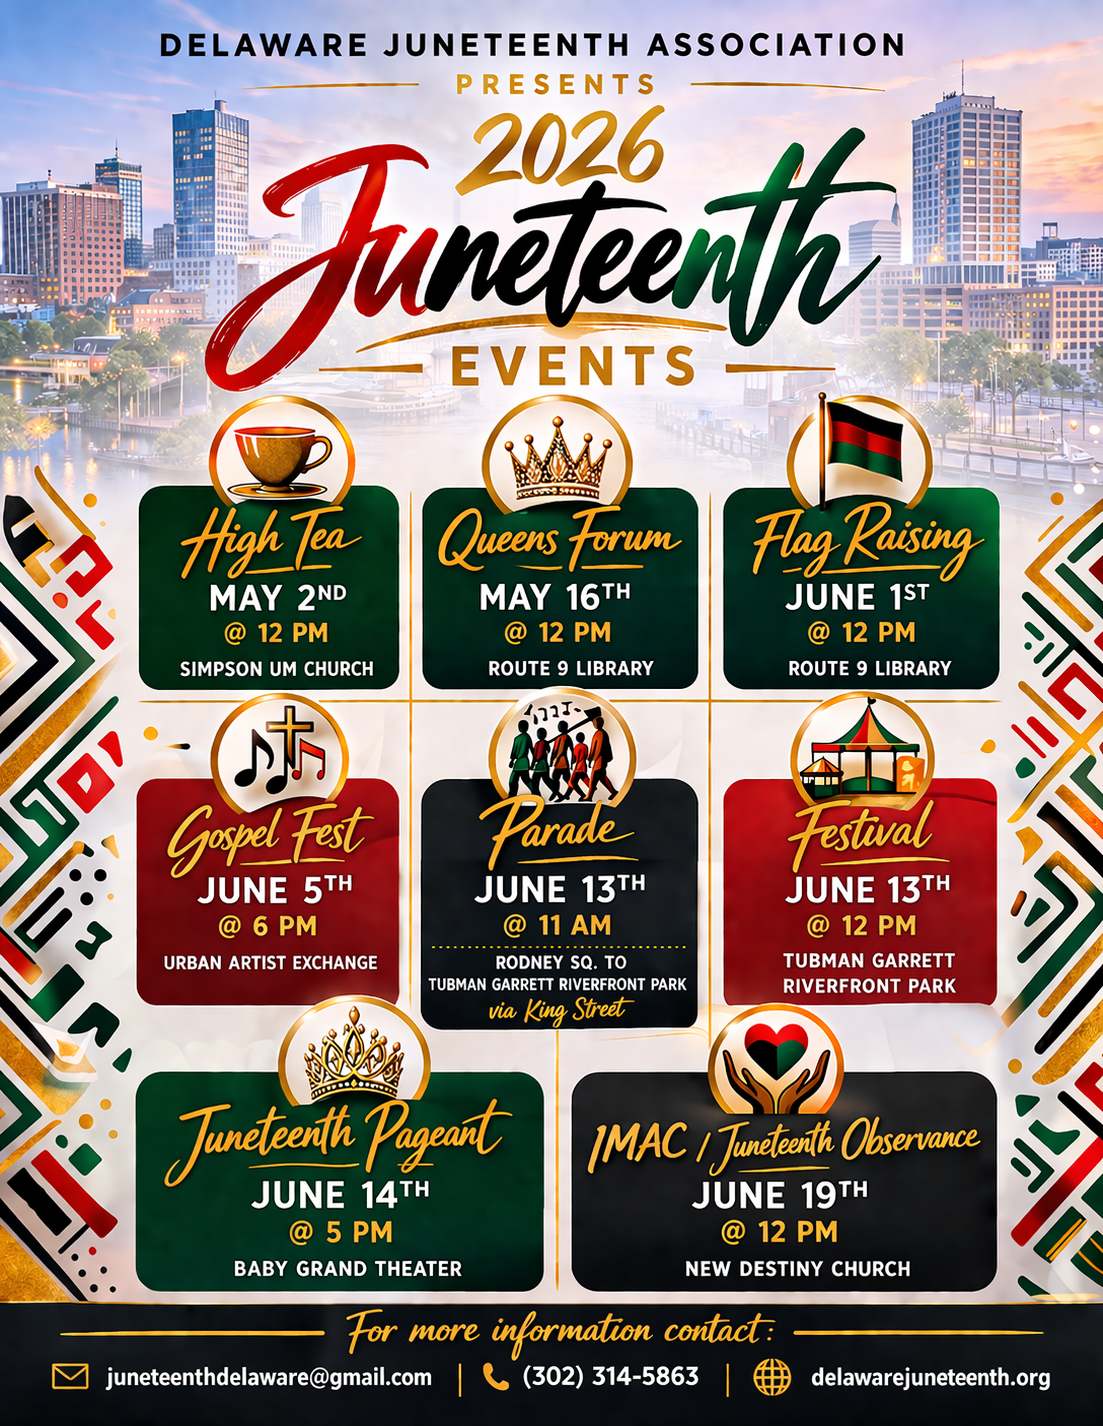
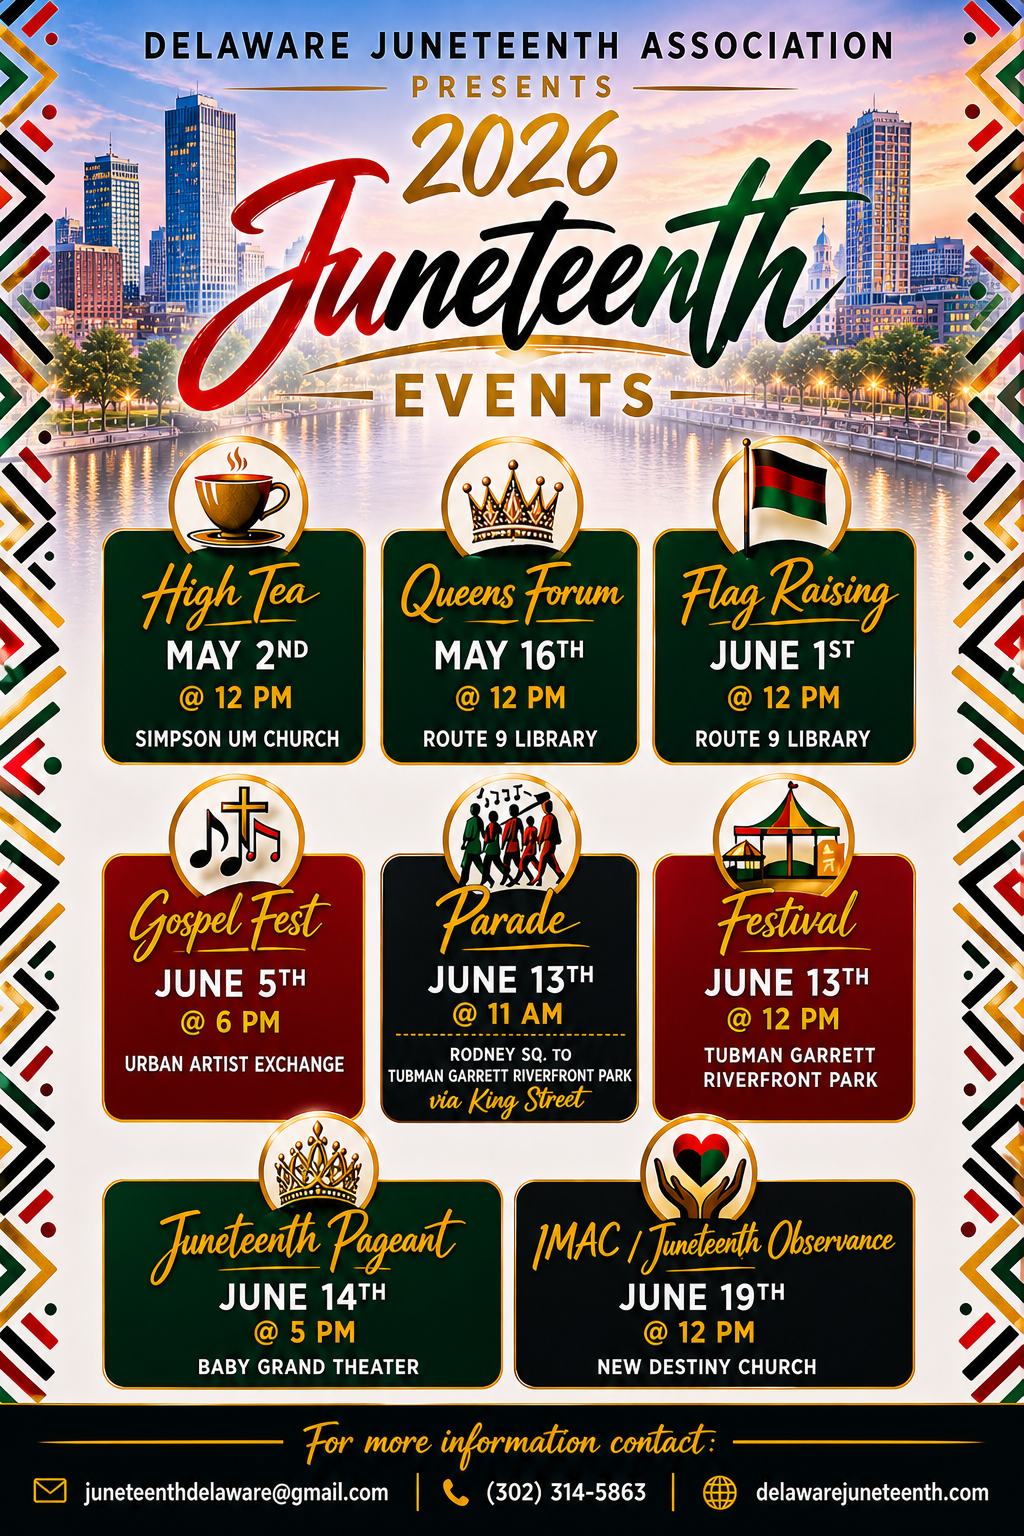
Add files via upload

diff --git a/index.html b/index.html
@@ -117,18 +117,6 @@
 
           <article class="home-slide" data-slide aria-hidden="true">
             <div class="home-slide-backdrop" aria-hidden="true">
-              <img src="images/deja-queens-forum-2026.png" alt="">
-            </div>
-
-            <div class="home-slide-content">
-              <div class="home-slide-poster">
-                <img src="images/deja-queens-forum-2026.png" alt="Former Queens Forum flyer for May 16, 2026 at Route 9 Library">
-              </div>
-            </div>
-          </article>
-
-          <article class="home-slide" data-slide aria-hidden="true">
-            <div class="home-slide-backdrop" aria-hidden="true">
               <img src="images/juneteenth-flag-raising-2026-flyer.png" alt="">
             </div>
 
@@ -141,24 +129,12 @@
 
           <article class="home-slide" data-slide aria-hidden="true">
             <div class="home-slide-backdrop" aria-hidden="true">
-              <img src="images/deja-fest-2026.png" alt="">
+              <img src="images/deja-gospel-fest-2026.jpg" alt="">
             </div>
 
             <div class="home-slide-content">
               <div class="home-slide-poster">
-                <img src="images/deja-fest-2026.png" alt="Juneteenth Festival and Parade flyer for June 13, 2026">
-              </div>
-            </div>
-          </article>
-
-          <article class="home-slide" data-slide aria-hidden="true">
-            <div class="home-slide-backdrop" aria-hidden="true">
-              <img src="images/fest-vendors-2026-flyer.png" alt="">
-            </div>
-
-            <div class="home-slide-content">
-              <div class="home-slide-poster">
-                <img src="images/fest-vendors-2026-flyer.png" alt="Need Vendors flyer for the June 13, 2026 Juneteenth celebration">
+                <img src="images/deja-gospel-fest-2026.jpg" alt="Delaware Juneteenth Gospel Fest flyer for June 5, 2026">
               </div>
             </div>
           </article>
@@ -171,6 +147,18 @@
             <div class="home-slide-content">
               <div class="home-slide-poster">
                 <img src="images/deja-parade-flyer-2026.png" alt="DE Juneteenth Parade flyer for Saturday, June 13, 2026">
+              </div>
+            </div>
+          </article>
+
+          <article class="home-slide" data-slide aria-hidden="true">
+            <div class="home-slide-backdrop" aria-hidden="true">
+              <img src="images/deja-fest-2026.png" alt="">
+            </div>
+
+            <div class="home-slide-content">
+              <div class="home-slide-poster">
+                <img src="images/deja-fest-2026.png" alt="Delaware Juneteenth Festival flyer for June 13, 2026 featuring The Fuzaholics Band">
               </div>
             </div>
           </article>
@@ -194,7 +182,7 @@
 
             <div class="home-slide-content">
               <div class="home-slide-poster">
-                <img src="images/imac-juneteenth-freedom-celebration-2026.png" alt="IMAC June 19, 2026 Juneteenth Freedom Celebration flyer at New Destiny Fellowship">
+                <img src="images/imac-juneteenth-freedom-celebration-2026.png" alt="IMAC Juneteenth Observance flyer for June 19, 2026 at New Destiny Fellowship">
               </div>
             </div>
           </article>
@@ -203,17 +191,16 @@
         <div class="home-slider-controls">
           <div class="home-slider-dots" role="tablist" aria-label="Featured flyer slides">
             <button type="button" class="home-slider-dot is-active" data-slide-to="0" aria-label="Show 2026 Juneteenth events flyer" aria-pressed="true"></button>
-            <button type="button" class="home-slider-dot" data-slide-to="1" aria-label="Show Former Queens Forum flyer" aria-pressed="false"></button>
-            <button type="button" class="home-slider-dot" data-slide-to="2" aria-label="Show Juneteenth flag raising flyer" aria-pressed="false"></button>
-            <button type="button" class="home-slider-dot" data-slide-to="3" aria-label="Show festival and parade flyer" aria-pressed="false"></button>
-            <button type="button" class="home-slider-dot" data-slide-to="4" aria-label="Show vendor flyer" aria-pressed="false"></button>
-            <button type="button" class="home-slider-dot" data-slide-to="5" aria-label="Show parade flyer" aria-pressed="false"></button>
-            <button type="button" class="home-slider-dot" data-slide-to="6" aria-label="Show pageant flyer" aria-pressed="false"></button>
-            <button type="button" class="home-slider-dot" data-slide-to="7" aria-label="Show Juneteenth Freedom Celebration flyer" aria-pressed="false"></button>
+            <button type="button" class="home-slider-dot" data-slide-to="1" aria-label="Show Juneteenth flag raising flyer" aria-pressed="false"></button>
+            <button type="button" class="home-slider-dot" data-slide-to="2" aria-label="Show Gospel Fest flyer" aria-pressed="false"></button>
+            <button type="button" class="home-slider-dot" data-slide-to="3" aria-label="Show parade flyer" aria-pressed="false"></button>
+            <button type="button" class="home-slider-dot" data-slide-to="4" aria-label="Show festival flyer" aria-pressed="false"></button>
+            <button type="button" class="home-slider-dot" data-slide-to="5" aria-label="Show pageant flyer" aria-pressed="false"></button>
+            <button type="button" class="home-slider-dot" data-slide-to="6" aria-label="Show Juneteenth Observance flyer" aria-pressed="false"></button>
           </div>
 
           <div class="home-slider-actions">
-            <span class="home-slider-count" data-slide-count>01 / 08</span>
+            <span class="home-slider-count" data-slide-count>01 / 07</span>
             <button type="button" class="home-slider-button" data-slide-direction="prev">Prev</button>
             <button type="button" class="home-slider-button" data-slide-direction="next">Next</button>
             <button type="button" class="home-slider-button" data-slide-toggle aria-pressed="false" aria-label="Pause slideshow autoplay">Pause</button>

diff --git a/upcoming-events.html b/upcoming-events.html
@@ -97,15 +97,6 @@
           </article>
 
           <article class="event-flyer-card">
-            <img src="images/deja-queens-forum-2026.png" alt="Former Queens Forum flyer for May 16, 2026 at Route 9 Library">
-            <h4>Former Queens Forum</h4>
-            <p>
-              The next DEJA event, taking place May 16, 2026 at 12:00 PM at Route 9 Library in
-              New Castle, Delaware.
-            </p>
-          </article>
-
-          <article class="event-flyer-card">
             <img src="images/juneteenth-flag-raising-2026-flyer.png" alt="Juneteenth Flag Raising flyer for Monday, June 1, 2026 at Route 9 Library and Innovation Center">
             <h4>Juneteenth Flag Raising</h4>
             <p>
@@ -115,19 +106,11 @@
           </article>
 
           <article class="event-flyer-card">
-            <img src="images/deja-fest-2026.png" alt="Juneteenth Festival and Parade flyer for June 13, 2026">
-            <h4>Juneteenth Festival &amp; Parade</h4>
+            <img src="images/deja-gospel-fest-2026.jpg" alt="Delaware Juneteenth Gospel Fest flyer for June 5, 2026">
+            <h4>Gospel Fest</h4>
             <p>
-              Featured community celebration flyer for the June 13, 2026 festival and parade at
-              Tubman-Garrett Park.
-            </p>
-          </article>
-
-          <article class="event-flyer-card">
-            <img src="images/fest-vendors-2026-flyer.png" alt="Need Vendors flyer for the June 13, 2026 Juneteenth celebration">
-            <h4>Vendor Opportunity</h4>
-            <p>
-              Vendor registration flyer for the June 13, 2026 celebration in Wilmington, Delaware.
+              Gospel Fest flyer for June 5, 2026 from 6:00 PM to 8:00 PM at Urban Artist Exchange
+              in Wilmington, Delaware.
             </p>
           </article>
 
@@ -136,6 +119,15 @@
             <h4>DE Juneteenth Parade</h4>
             <p>
               Parade flyer featuring the June 13, 2026 route along King Street in Wilmington.
+            </p>
+          </article>
+
+          <article class="event-flyer-card">
+            <img src="images/deja-fest-2026.png" alt="Delaware Juneteenth Festival flyer for June 13, 2026 featuring The Fuzaholics Band">
+            <h4>Juneteenth Festival</h4>
+            <p>
+              Festival flyer for June 13, 2026 at Tubman Garrett Park at the Riverfront, featuring
+              The Fuzaholics Band.
             </p>
           </article>
 
@@ -149,11 +141,10 @@
           </article>
 
           <article class="event-flyer-card">
-            <img src="images/imac-juneteenth-freedom-celebration-2026.png" alt="IMAC June 19, 2026 Juneteenth Freedom Celebration flyer at New Destiny Fellowship">
-            <h4>Juneteenth Freedom Celebration</h4>
+            <img src="images/imac-juneteenth-freedom-celebration-2026.png" alt="IMAC Juneteenth Observance flyer for June 19, 2026 at New Destiny Fellowship">
+            <h4>Juneteenth Observance</h4>
             <p>
-              IMAC Juneteenth Freedom Celebration flyer for Friday, June 19, 2026 at
-              New Destiny Fellowship.
+              IMAC Juneteenth Observance flyer for Friday, June 19, 2026 at New Destiny Church.
             </p>
           </article>
         </div>

diff --git a/programs.html b/programs.html
@@ -94,20 +94,20 @@
       </article>
 
       <article class="page-panel">
-        <h3>Former Queens Forum</h3>
-        <p>
-          The next DEJA event, happening May 16, 2026 at Route 9 Library in New Castle, Delaware.
-        </p>
-        <a href="images/deja-queens-forum-2026.png" class="page-link-button">Open Flyer</a>
-      </article>
-
-      <article class="page-panel">
         <h3>Juneteenth Flag Raising Ceremony</h3>
         <p>
           Learn about the flag’s history, the tradition of the ceremony, and how Delaware
           communities can participate.
         </p>
         <a href="juneteenth-flag-raising-ceremony.html" class="page-link-button">Open Page</a>
+      </article>
+
+      <article class="page-panel">
+        <h3>Gospel Fest</h3>
+        <p>
+          View the Delaware Juneteenth Gospel Fest flyer for June 5, 2026 at Urban Artist Exchange.
+        </p>
+        <a href="images/deja-gospel-fest-2026.jpg" class="page-link-button">Open Flyer</a>
       </article>
 
       <article class="page-panel">
